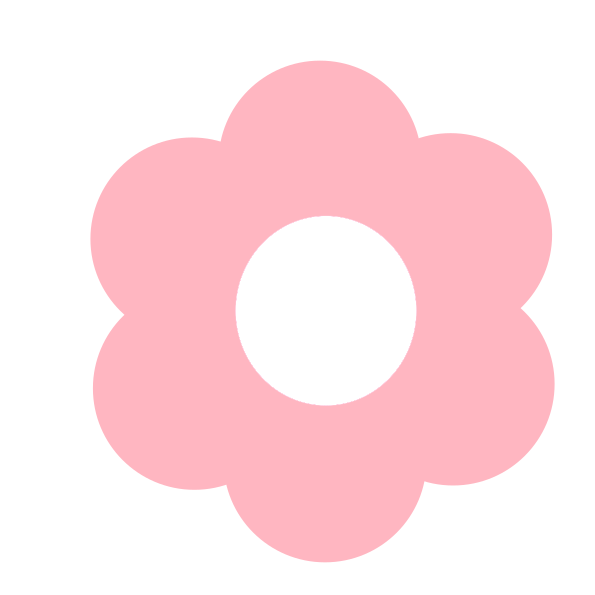
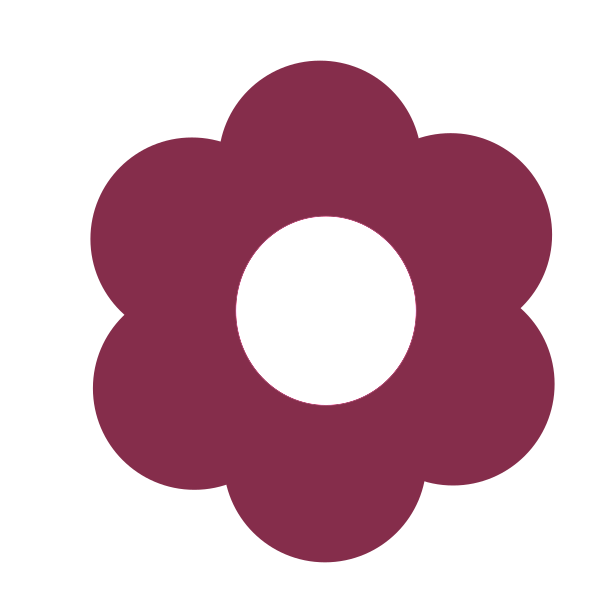
change color of flowers

diff --git a/app/assets/stylesheets/application.css b/app/assets/stylesheets/application.css
@@ -91,18 +91,6 @@ html, body {
   background-repeat: no-repeat;
 } */
 
-#name p {
-  position: relative;
-  top: 5%;
-  font-family: 'Jamoer', 'Bull', sans-serif;
-  color: #ac3b61;
-  text-align: center;
-  line-height: 30px;
-  font-weight: bold;
-  font-size: 1.2rem;
-  letter-spacing: 0.2rem;
-}
-
 #search_bar {
   position: absolute;
   top: 70%;
